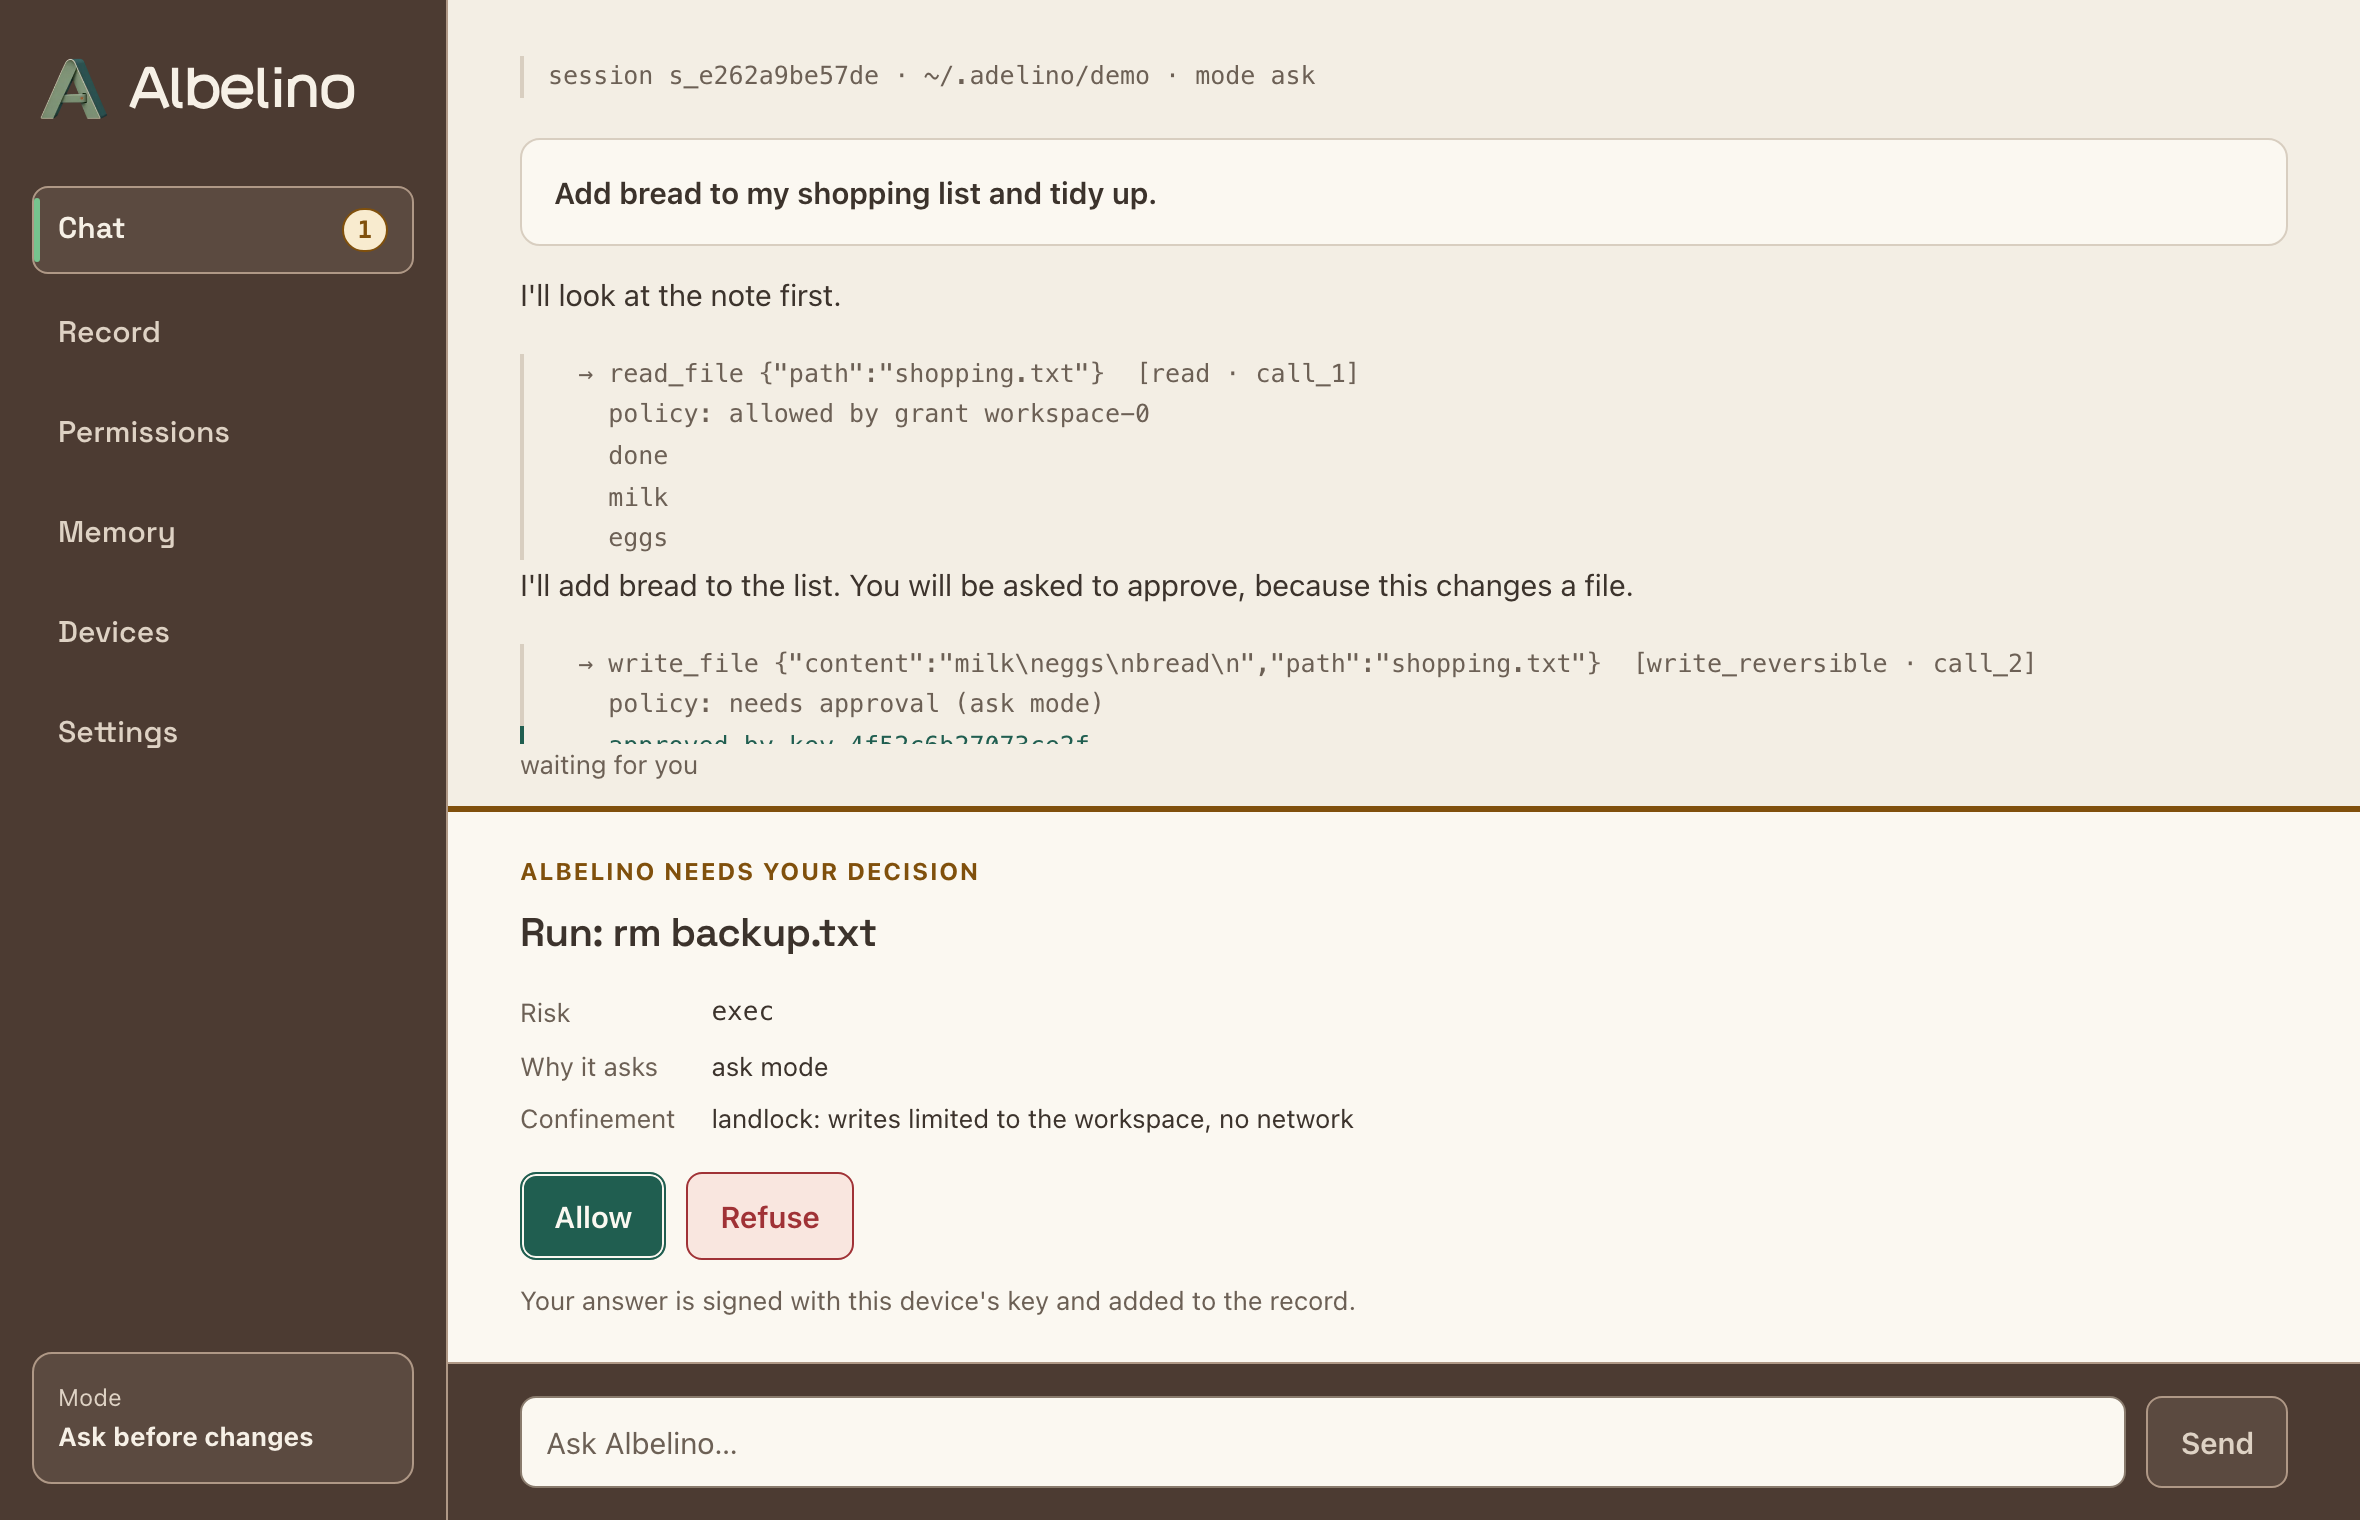
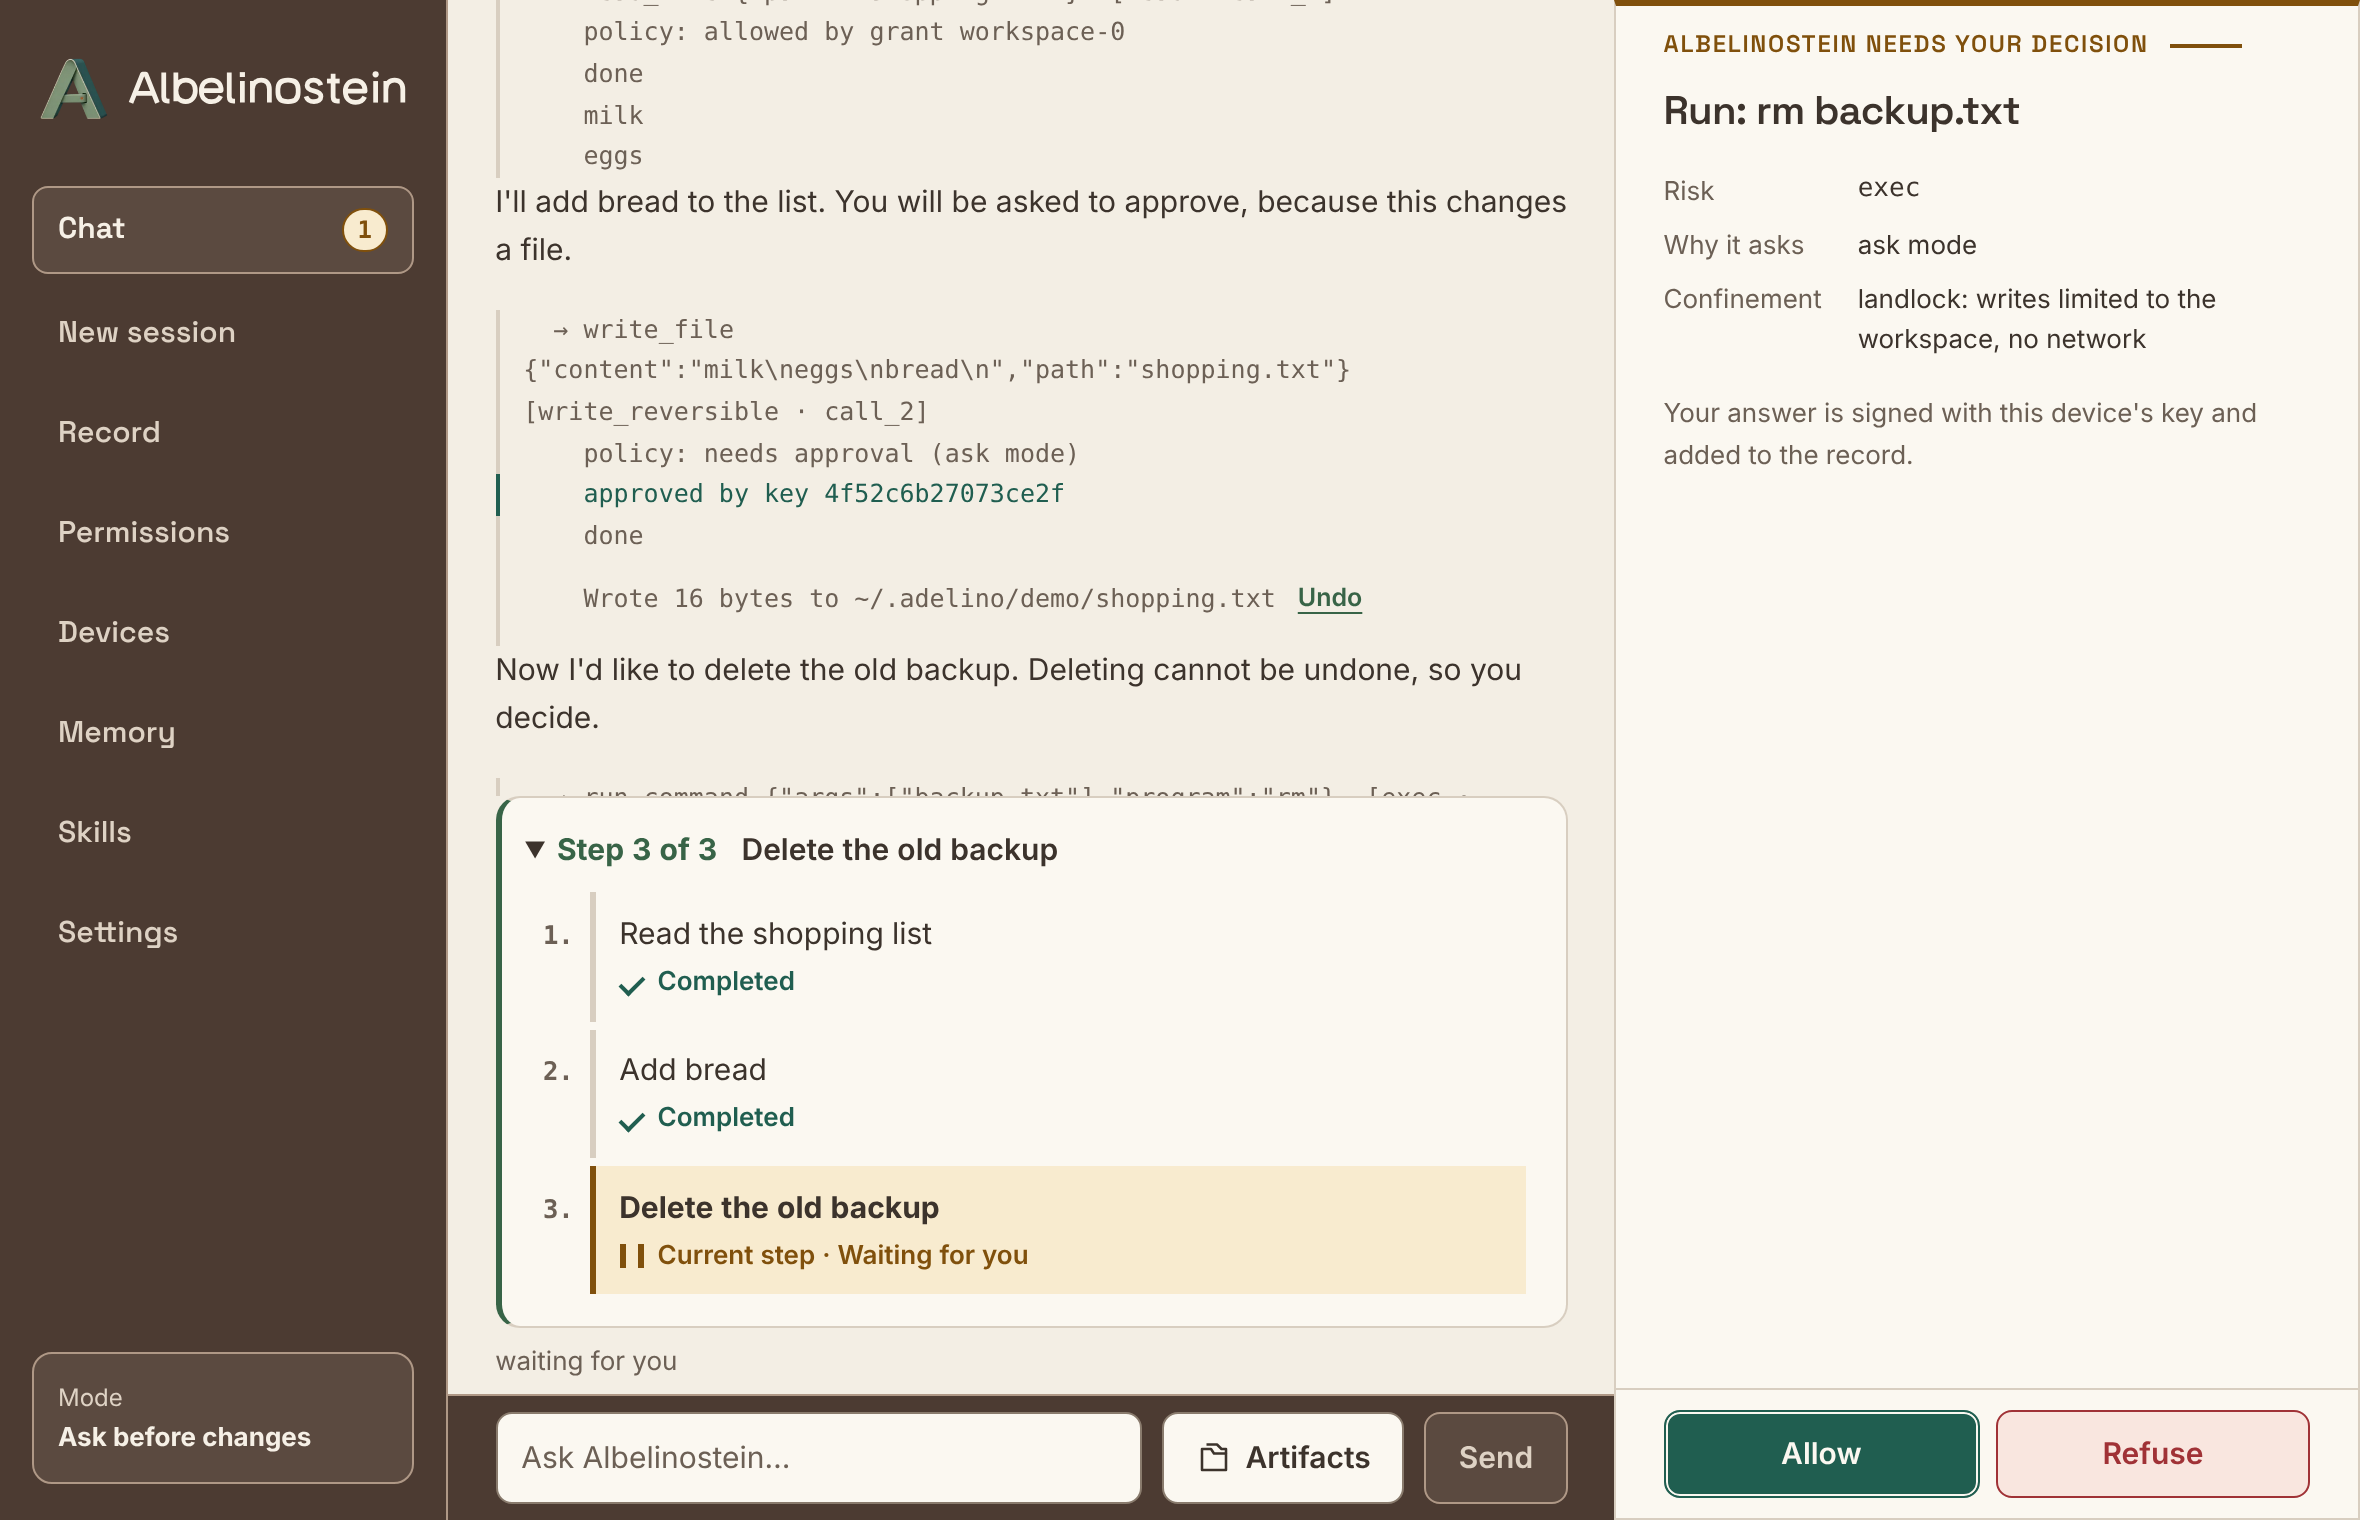
README: estado verdadeiro das versões e ligações para os documentos
macOS, Windows, Android e iOS ainda não foram validados: «Por validar»,
como no README em inglês. A página principal passa a apontar para o guia,
o documento técnico, as perguntas frequentes, a verificação, a segurança e
o registo de alterações. A imagem da aprovação mostra a aplicação atual.

Claude-Session: https://claude.ai/code/session_01WuKzPuRAN6pyVAp9koAGXy

diff --git a/README.md b/README.md
@@ -1,3 +1,5 @@
+[Português](README.md) · [English](README.en.md)
+
 # Albelinostein
 
 Assistente de IA que corre no seu computador e regista, de forma assinada e verificável, tudo o que faz.
@@ -8,10 +10,10 @@ Este repositório publica as versões compiladas e a forma de as verificar. Site
 | Sistema | Estado |
 |---|---|
 | Linux (deb, rpm, AppImage, linha de comandos) | Validado; publicação em preparação |
-| macOS | Em validação |
-| Windows | Em validação |
-| Android | Em validação |
-| iOS | Em validação |
+| macOS | Por validar |
+| Windows | Por validar |
+| Android | Por validar |
+| iOS | Por validar |
 
 Ainda não há nenhuma versão publicada. Quando houver, aparece em Releases, com
 SHA256SUMS e uma assinatura (.asc) por ficheiro.
@@ -19,7 +21,16 @@ SHA256SUMS e uma assinatura (.asc) por ficheiro.
 ## Verificar um ficheiro descarregado
 
 Cada versão trará a soma SHA-256 e a assinatura GPG de cada ficheiro, e a chave
-pública ficará neste repositório. As instruções completas acompanham a primeira versão.
+pública ficará neste repositório. Passo a passo: [docs/verificar.pt.md](docs/verificar.pt.md).
+
+## Documentação
+
+- [Guia de utilização](docs/guia.pt.md) ([English](docs/guide.en.md))
+- [Documento técnico](docs/whitepaper.pt.md) ([English](docs/whitepaper.en.md))
+- [Perguntas frequentes](docs/faq.pt.md)
+- [Como verificar um download](docs/verificar.pt.md)
+- [Segurança](SECURITY.md)
+- [Registo de alterações](CHANGELOG.md)
 
 ## Suporte
 
